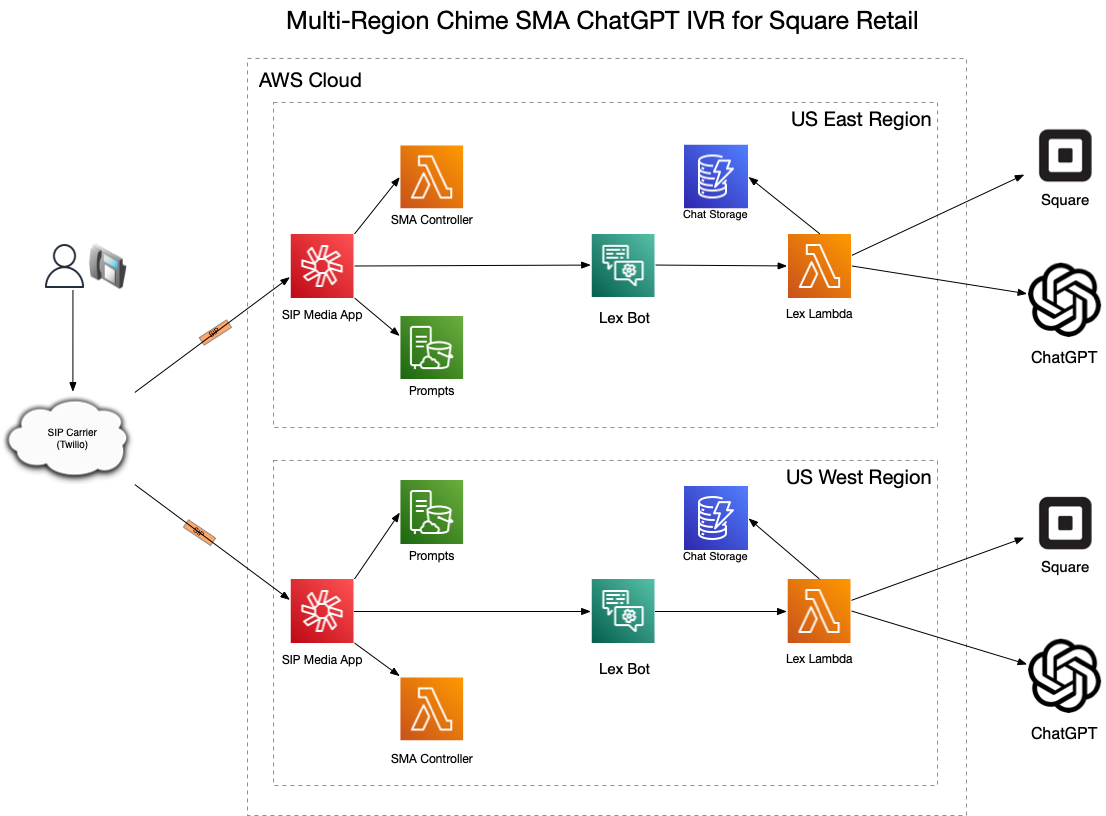
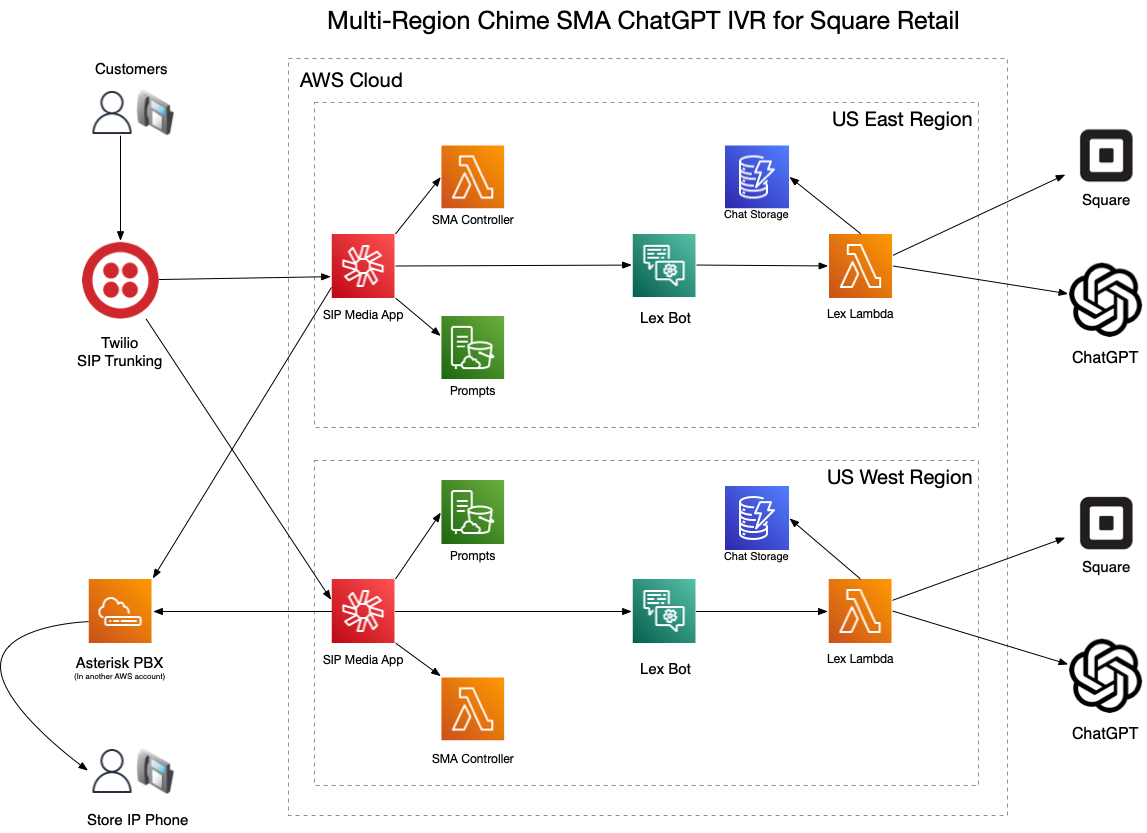
Doc Updates

diff --git a/README.md b/README.md
@@ -358,6 +358,10 @@ After provisioning a [phone number in Chime](https://docs.aws.amazon.com/chime-s
 ![Chime Phone Targets](assets/chimephonenumber.png)
 
 
+## Twilio Provisioning and setup
+
+(coming soon)
+
 ## Testing
 
 After deploying you can use the [test script](testGPT.sh) to send commands to ChatGPT just to make sure everything is working as planned.  The script collects your input and uses the aws cli to send requests to both regions.
@@ -409,6 +413,104 @@ You can run the following:
 ./destroy.sh
 
 ```
+
+## Sample Asterisk Config
+
+Connecting your PBX to the Chime Voice Connectors to send and receive calls.  
+You would take the Chime Voice Connector hostnames from the output of stacks after deployment.
+Obviously if you tear down the stacks and redeploy, the Voice Connector names will change, so you need to go back to Asterisk and update the names.
+
+pjsip_wizzard.conf: 
+
+```
+[aws-chime-virginia]
+type=wizard
+transport=transport-udp
+remote_hosts=fdtthyhzkjkmvgvgvgykxx.voiceconnector.chime.aws
+endpoint/context=incoming-twilio
+endpoint/disallow=all
+endpoint/allow=ulaw
+endpoint/direct_media=no
+endpoint/dtmf_mode=auto
+endpoint/rtp_symmetric=yes
+
+[aws-chime-oregon]
+type=wizard
+transport=transport-udp
+remote_hosts=cyl0xlnxwrojzkca0pz0d2.voiceconnector.chime.aws
+endpoint/context=incoming-twilio
+endpoint/disallow=all
+endpoint/allow=ulaw
+endpoint/direct_media=no
+endpoint/dtmf_mode=auto
+endpoint/rtp_symmetric=yes
+```
+
+extensions.conf excerpt:
+
+```
+[incoming-twilio]
+
+exten => _+1320495242X,1,NoOp(Call for Copper Fox DID ${EXTEN})
+        same => n,Goto(copperfox,${EXTEN:1},1)
+
+
+
+[copperfox]
+include => outbound-tc-local
+include => outbound-longdistance
+
+; Calls will come from Chime Voice Connector (or Twilio)
+exten => 13204952424,1,NoOp(Call to Copper Fox Main Line)
+	same => n,GoSub(known-callers,start,1)
+        same => n,Dial(SCCP/13204952424,40)
+        same => n,VoiceMail(${EXTEN})
+        same => n,Hangup()
+
+; Call SMA in East and failover to West if down
+exten => 290,1,NoOP(Call to AWS Chime)
+        same => n,Dial(PJSIP/+17035550122@aws-chime-virginia)
+        same => n,Playback(sorry-youre-having-problems)
+        same => n,Dial(PJSIP/+17035550122@aws-chime-oregon)
+
+; Call SMA in the East region only
+exten => 291,1,NoOP(Call to AWS Chime)
+        same => n,Dial(PJSIP/+17035550122@aws-chime-virginia)
+
+; Call SMA in the West region only
+exten => 292,1,NoOP(Call to AWS Chime Oregon)
+        same => n,Dial(PJSIP/+17035550122@aws-chime-oregon)
+
+```
+
+I've alo observed that Chime endpoints can change over time, usually there are 12, but once Asterisk locks them in it doesn't seem to update them over time.  
+Asterisk will refuse the call if a new endpoint is added/swapped at some point, so the brute force solution is to just relaod Asterisk every morning.
+
+```
+[root@Asterisk asterisk]# crontab -l
+0 6 * * * /sbin/asterisk -x "core restart when convenient"
+
+[root@Asterisk asterisk]# dig fdtthyhzkjkmvgvgvgykxx.voiceconnector.chime.aws
+
+; <<>> DiG 9.11.4-P2-RedHat-9.11.4-26.P2.amzn2.13.5 <<>> fdtthyhzkjkmvgvgvgykxx.voiceconnector.chime.aws
+;; QUESTION SECTION:
+;fdtthyhzkjkmvgvgvgykxx.voiceconnector.chime.aws. IN A
+
+;; ANSWER SECTION:
+fdtthyhzkjkmvgvgvgykxx.voiceconnector.chime.aws. 60 IN A 3.80.16.114
+fdtthyhzkjkmvgvgvgykxx.voiceconnector.chime.aws. 60 IN A 3.80.16.0
+fdtthyhzkjkmvgvgvgykxx.voiceconnector.chime.aws. 60 IN A 3.80.16.101
+fdtthyhzkjkmvgvgvgykxx.voiceconnector.chime.aws. 60 IN A 3.80.16.108
+fdtthyhzkjkmvgvgvgykxx.voiceconnector.chime.aws. 60 IN A 3.80.16.103
+fdtthyhzkjkmvgvgvgykxx.voiceconnector.chime.aws. 60 IN A 3.80.16.115
+fdtthyhzkjkmvgvgvgykxx.voiceconnector.chime.aws. 60 IN A 3.80.16.102
+fdtthyhzkjkmvgvgvgykxx.voiceconnector.chime.aws. 60 IN A 3.80.16.100
+fdtthyhzkjkmvgvgvgykxx.voiceconnector.chime.aws. 60 IN A 3.80.16.107
+fdtthyhzkjkmvgvgvgykxx.voiceconnector.chime.aws. 60 IN A 3.80.16.1
+fdtthyhzkjkmvgvgvgykxx.voiceconnector.chime.aws. 60 IN A 3.80.16.116
+fdtthyhzkjkmvgvgvgykxx.voiceconnector.chime.aws. 60 IN A 3.80.16.106
+```
+
 
 ## Sample Deploy Output
 
